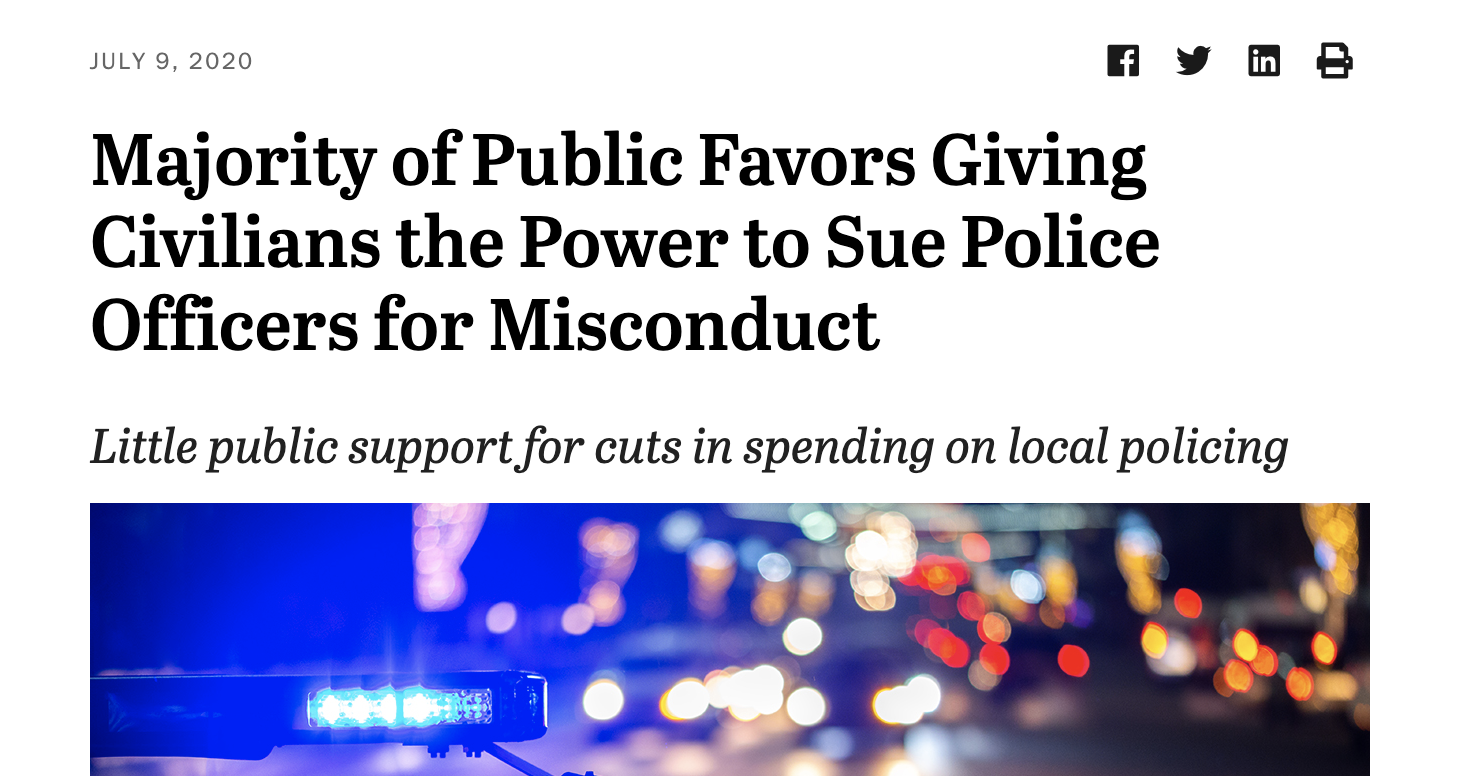
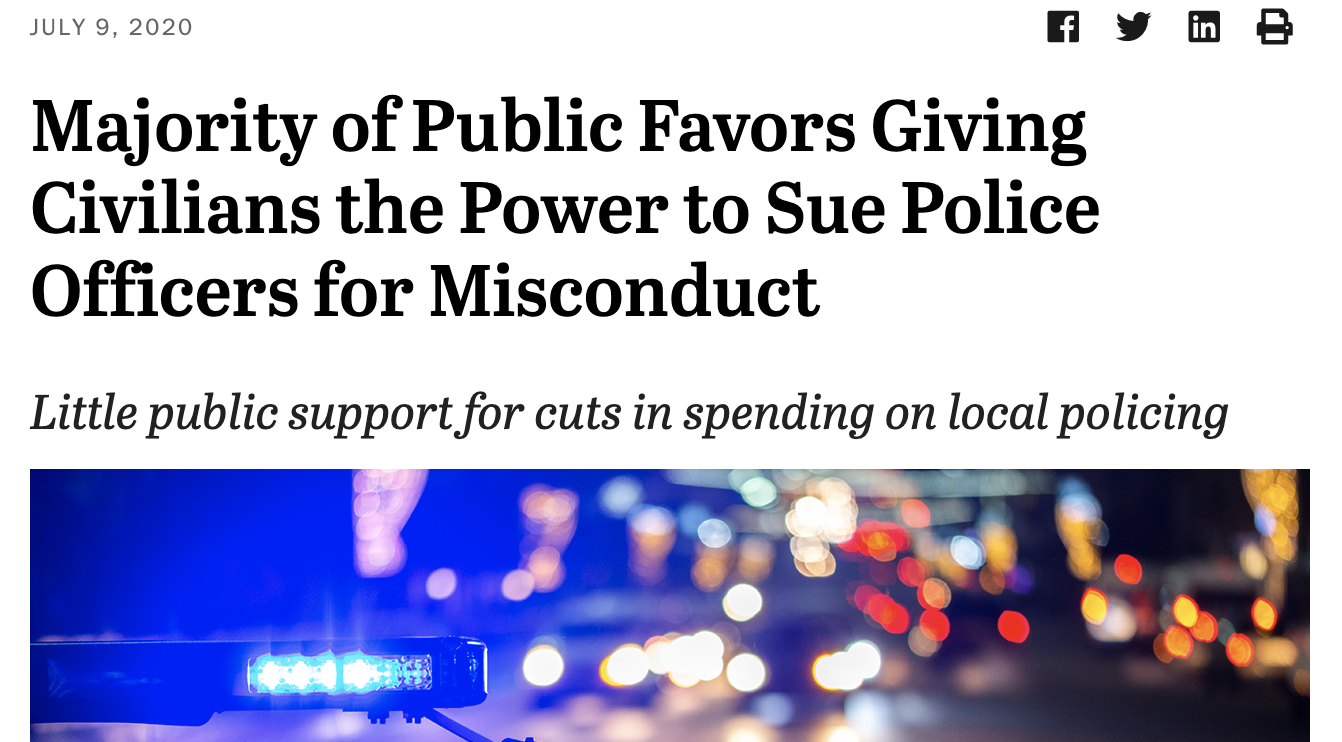
Updated advocacy

diff --git a/saferpolicingR.html b/saferpolicingR.html
@@ -176,8 +176,8 @@
         <p align=center><a href="https://www.washingtonpost.com/graphics/investigations/police-shootings-database/" target="_blank">Map of deadly encounters with police in Pennsylvania since 2015.</a></p>
         <a href="https://www.washingtonpost.com/graphics/investigations/police-shootings-database/" target="_blank"><img src="https://raw.githubusercontent.com/nolankav/nolankav.github.io/master/waposhootingheader.png" alt="Washington Post shootings database header" style="width:100%"></a>
         
-        <p><a href="https://www.pewresearch.org/politics/2020/07/09/majority-of-public-favors-giving-civilians-the-power-to-sue-police-officers-for-misconduct/" target="_blank">Pew Research polls on policing in America, 2016 vs. 2020.</a></p>
-        <a href="https://www.washingtonpost.com/graphics/investigations/police-shootings-database/" target="_blank"><img src="https://raw.githubusercontent.com/nolankav/nolankav.github.io/master/waposhootingheader.png" alt="Pew policing polls header" style="width:100%"></a>
+        <p align=center><a href="https://www.pewresearch.org/politics/2020/07/09/majority-of-public-favors-giving-civilians-the-power-to-sue-police-officers-for-misconduct/" target="_blank">Pew Research polls on policing in America, 2016 vs. 2020.</a></p>
+        <a href="https://www.washingtonpost.com/graphics/investigations/police-shootings-database/" target="_blank"><img src="https://raw.githubusercontent.com/nolankav/nolankav.github.io/master/pewpoliceheader.png" alt="Pew policing polls header" style="width:100%"></a>
         
         <p><a href="https://www.nature.com/articles/d41586-020-01846-z" target="_blank">Summary of academic research on police brutality and racial bias.</a></p>
         <p><a href="https://www.usatoday.com/story/news/nation-now/2018/04/28/golf-club-twice-called-police-after-black-women-told-they-were-playing-too-slow/561206002/" target="_blank">Police called on Black women in Dover, PA, for &ldquo;golfing too slow.&rdquo;</a></p>
